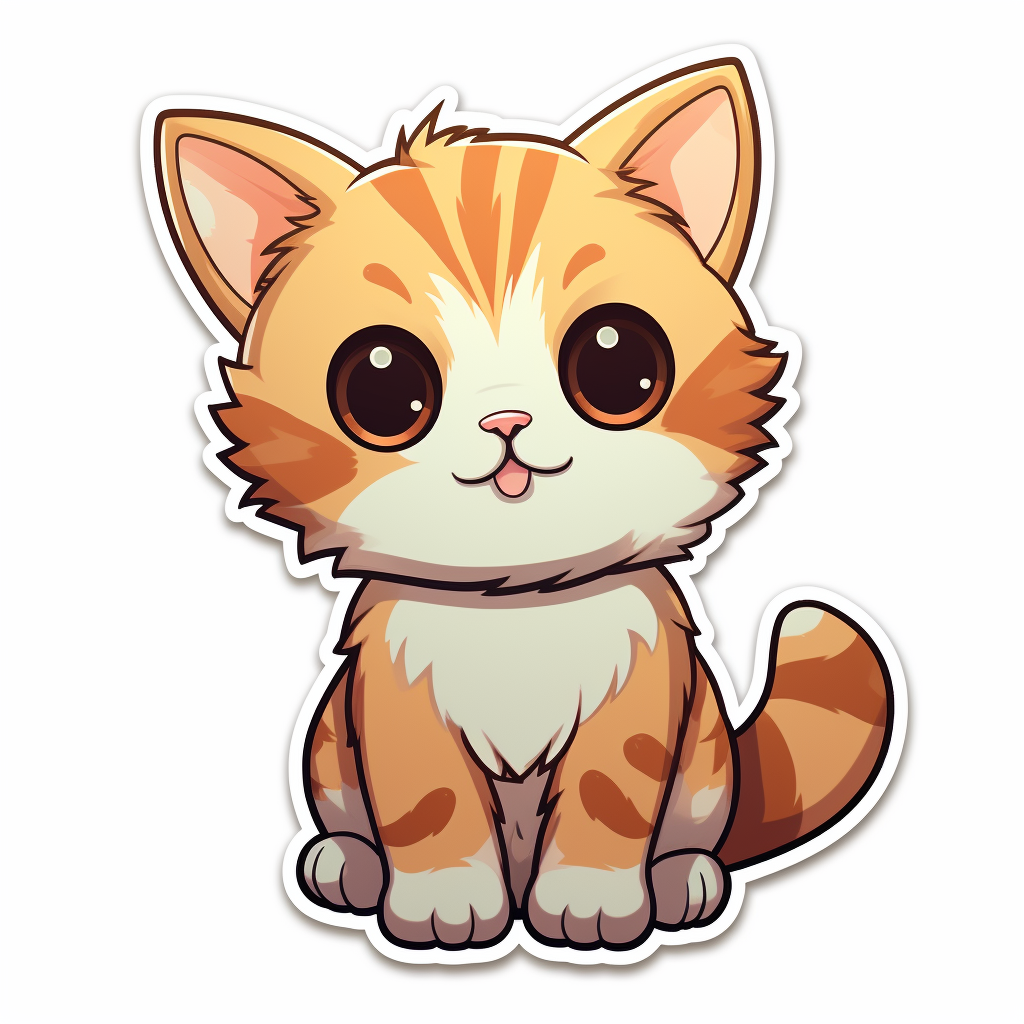
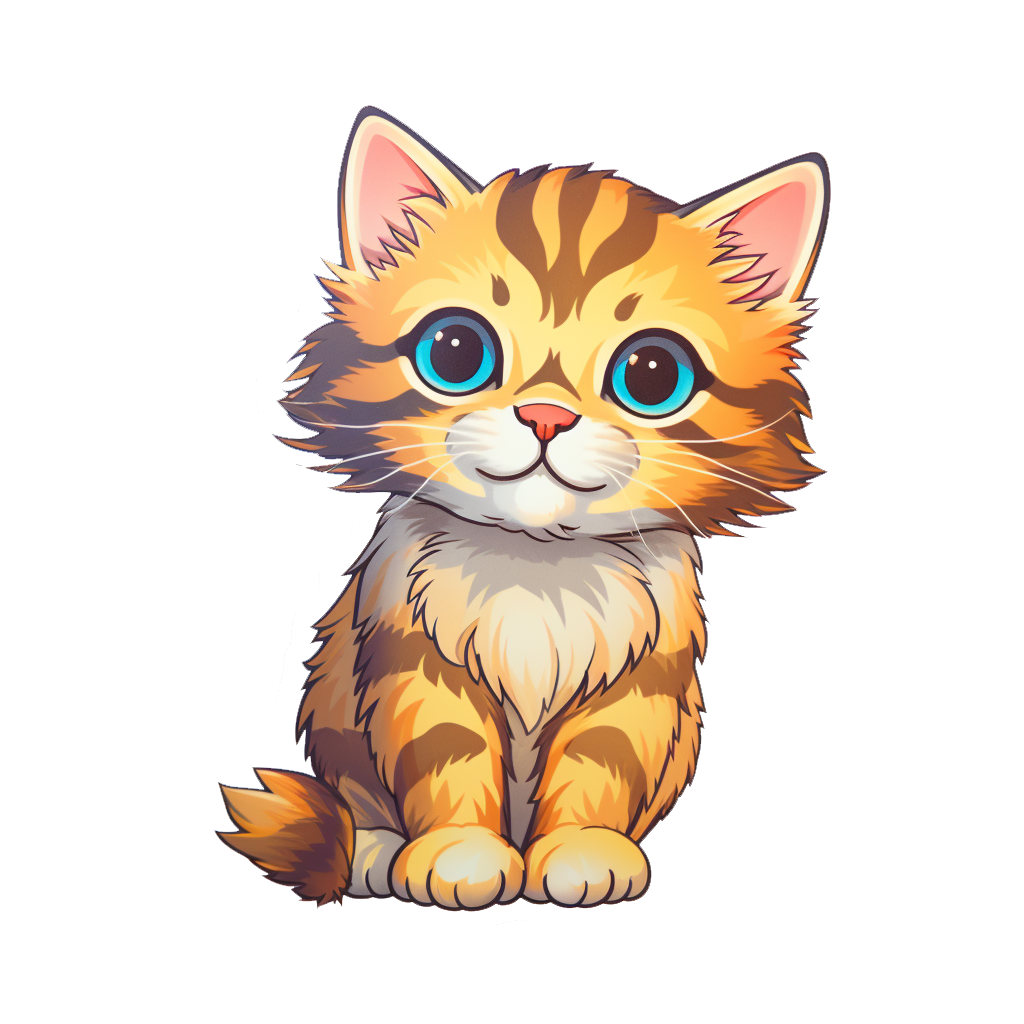
add pet attributes and transparent backgrounds

diff --git a/src/main/java/de/schroedingerscat/commandhandler/CatsAndPetsHandler.java b/src/main/java/de/schroedingerscat/commandhandler/CatsAndPetsHandler.java
@@ -220,12 +220,12 @@ public class CatsAndPetsHandler extends ListenerAdapter {
         String[][] lPetNames = new String[lPets.length][2];
         for (int i = 0; i < 3 &&  i < lPets.length; ++i) {
             lPetNames[i][0] = lPets[i].name();
-            lPetNames[i][1] = Utils.formatPrice(lPets[i].price());
+            lPetNames[i][1] = "Level " + lPets[i].level()+"\nStrength: "+lPets[i].strength()+"\nHealth: "+lPets[i].health()+"\nSpeed: "+lPets[i].speed()+"\nPrice: "+Utils.formatPrice(lPets[i].price());
         }
 
-        MessageEmbed lEmbed = Utils.createEmbed(CATS_AND_PETS_COLOR, "Pet Inventory", "Your pets:", lPetNames, true, null, "attachment://pets.jpg", "1/"+Utils.roundUp(getNumberOfPetsFor(pEvent.getUser().getIdLong(), pEvent.getGuild().getIdLong()),3));
+        MessageEmbed lEmbed = Utils.createEmbed(CATS_AND_PETS_COLOR, "Pet Inventory", "Your pets:", lPetNames, true, null, "attachment://pets.png", "1/"+Utils.roundUp(getNumberOfPetsFor(pEvent.getUser().getIdLong(), pEvent.getGuild().getIdLong()),3));
         pEvent.getHook().editOriginalEmbeds(lEmbed).
-                setAttachments(FileUpload.fromData(mergePetImages(lPets), "pets.jpg")).
+                setAttachments(FileUpload.fromData(mergePetImages(lPets), "pets.png")).
                 setActionRow(
                         Button.primary("left_", Emoji.fromUnicode("U+21E6").getAsReactionCode()),
                         Button.primary("right_", Emoji.fromUnicode("U+21E8").getAsReactionCode())
@@ -237,40 +237,39 @@ public class CatsAndPetsHandler extends ListenerAdapter {
         BufferedImage lImg1 = ImageIO.read(new File(pPetPath1));
         BufferedImage lImg2 = ImageIO.read(new File(pPetPath2));
         BufferedImage lImg3 = ImageIO.read(new File(pPetPath3));
-        BufferedImage lMergedImg = new BufferedImage(lImg1.getWidth() + lImg2.getWidth() + lImg3.getWidth() + 160, Math.max(lImg1.getHeight(), Math.max(lImg2.getHeight(), lImg3.getHeight()))+80, BufferedImage.TYPE_INT_RGB);
+        BufferedImage lMergedImg = new BufferedImage(lImg1.getWidth() + lImg2.getWidth() + lImg3.getWidth() + 160, Math.max(lImg1.getHeight(), Math.max(lImg2.getHeight(), lImg3.getHeight()))+80, BufferedImage.TYPE_INT_ARGB);
 
         Graphics2D lMergedImgGraphic = lMergedImg.createGraphics();
-        lMergedImgGraphic.drawImage(lImg1, 40, 40, null);
-        lMergedImgGraphic.drawImage(lImg2, lImg1.getWidth() + 80, 40, null);
-        lMergedImgGraphic.drawImage(lImg3, lImg1.getWidth() + 120 + lImg2.getWidth(), 40, null);
+        lMergedImgGraphic.drawImage(lImg1, 0, 0, null);
+        lMergedImgGraphic.drawImage(lImg2, lImg1.getWidth(), 0, null);
+        lMergedImgGraphic.drawImage(lImg3, lImg1.getWidth() + lImg2.getWidth(), 0, null);
 
-        ImageIO.write(lMergedImg, "jpg", new File(pOutput));
+        ImageIO.write(lMergedImg, "png", new File(pOutput));
         lMergedImgGraphic.dispose();
     }
 
     public byte[] mergePetImages(Pet... pPets) throws IOException {
         BufferedImage[] lImageFiles = new BufferedImage[pPets.length];
-        int lWidth = 40;
+        int lWidth = 0;
         int lHeight = 0;
 
         for (int i = 0; i < pPets.length; ++i) {
             lImageFiles[i] = ImageIO.read(new File(getPetPath(pPets[i].id())));
-            lWidth += lImageFiles[i].getWidth() + 40;
+            lWidth += lImageFiles[i].getWidth();
             lHeight = Math.max(lHeight, lImageFiles[i].getHeight());
         }
-        lHeight += 80;
 
-        BufferedImage lMergedImg = new BufferedImage(lWidth, lHeight, BufferedImage.TYPE_INT_RGB);
+        BufferedImage lMergedImg = new BufferedImage(lWidth, lHeight, BufferedImage.TYPE_INT_ARGB);
         Graphics2D lMergedImgGraphic = lMergedImg.createGraphics();
 
-        int lX = 40;
+        int lX = 0;
         for (int i = 0; i < lImageFiles.length; ++i) {
             lMergedImgGraphic.drawImage(lImageFiles[i], lX, 40, null);
-            lX += lImageFiles[i].getWidth() + 40;
+            lX += lImageFiles[i].getWidth();
         }
 
         ByteArrayOutputStream baos = new ByteArrayOutputStream();
-        ImageIO.write(lMergedImg, "jpg", baos);
+        ImageIO.write(lMergedImg, "png", baos);
         return baos.toByteArray();
     }
 
@@ -286,9 +285,9 @@ public class CatsAndPetsHandler extends ListenerAdapter {
 
     private Pet[] getOneSiteOfPetsFor(long pUserId, long pGuildId, int pSite) throws SQLException {
         ArrayList<Pet> lPets = new ArrayList<>();
-        ResultSet lRs = mUtils.onQuery("SELECT * FROM Pet WHERE id IN (SELECT pet_id FROM PetInventory WHERE guild_id = ? AND user_id = ? ORDER BY pet_id ASC LIMIT ?, 3)", pGuildId, pUserId, pSite*3);
+        ResultSet lRs = mUtils.onQuery("SELECT id, name, description, price, strength, health, speed, level FROM Pet JOIN PetInventory ON pet_id = id WHERE guild_id = ? AND user_id = ? ORDER BY pet_id ASC LIMIT ?, 3", pGuildId, pUserId, pSite*3);
         for (int i = 0; i < 3 && lRs.next(); ++i) {
-            lPets.add(new Pet(lRs.getInt("id"), lRs.getString("name"), lRs.getInt("price"), lRs.getString("description")));
+            lPets.add(new Pet(lRs.getInt("id"), lRs.getString("name"), lRs.getString("description"), lRs.getInt("price"), lRs.getInt("level"), lRs.getInt("strength"), lRs.getInt("health"), lRs.getInt("speed")));
         }
 
         return lPets.toArray(new Pet[lPets.size()]);
@@ -297,7 +296,7 @@ public class CatsAndPetsHandler extends ListenerAdapter {
     private void shopCommand(SlashCommandInteractionEvent pEvent) throws IOException {
         pEvent.deferReply().queue();
 
-        FileInputStream lCatInStream = new FileInputStream("src/main/resources/shop.jpg");
+        FileInputStream lCatInStream = new FileInputStream("src/main/resources/shop.png");
         pEvent.getHook().
                 editOriginalEmbeds(new EmbedBuilder().
                         setTitle("Pet Shop").
@@ -306,7 +305,7 @@ public class CatsAndPetsHandler extends ListenerAdapter {
                         addField(mPetsInStock[0].name(), Utils.formatPrice(mPetsInStock[0].price()), true).
                         addField(mPetsInStock[1].name(), Utils.formatPrice(mPetsInStock[1].price()), true).
                         addField(mPetsInStock[2].name(), Utils.formatPrice(mPetsInStock[2].price()), true).
-                        setImage("attachment://shop.jpg").
+                        setImage("attachment://shop.png").
                         build()
                 ).
                 setActionRow(
@@ -314,7 +313,7 @@ public class CatsAndPetsHandler extends ListenerAdapter {
                         Button.success("buy_pet_1", "Buy Pet 2"),
                         Button.danger("buy_pet_2", "Buy Pet 3")
                 ).
-                setAttachments(FileUpload.fromData(lCatInStream, "shop.jpg")).
+                setAttachments(FileUpload.fromData(lCatInStream, "shop.png")).
                 queue();
     }
 
@@ -330,7 +329,7 @@ public class CatsAndPetsHandler extends ListenerAdapter {
             pEvent.getHook().editOriginalEmbeds(Utils.createEmbed(Color.red, ":x: You already own this pet", lUser)).queue();
         }
         else {
-            mUtils.onExecute("INSERT INTO PetInventory (guild_id, user_id, pet_id) VALUES (?, ?, ?)", pEvent.getGuild().getIdLong(), lUser.getIdLong(), lPet.id());
+            mUtils.onExecute("INSERT INTO PetInventory (guild_id, user_id, pet_id, level) VALUES (?, ?, ?, 1)", pEvent.getGuild().getIdLong(), lUser.getIdLong(), lPet.id());
             mUtils.increaseBankOrCash(lUser.getIdLong(), pEvent.getGuild().getIdLong(), -lPet.price(), "cash");
             FileInputStream lPetImgStream = new FileInputStream(getPetPath(lPet.id()));
             pEvent.getHook().editOriginalEmbeds(
@@ -351,9 +350,11 @@ public class CatsAndPetsHandler extends ListenerAdapter {
     }
 
     private void refreshPetStock() throws SQLException, IOException {
-        for (int i = 0; i < mPetsInStock.length; i++) {
-            mPetsInStock[i] = mUtils.getPet();
+        ResultSet lRs = mUtils.onQuery("SELECT * FROM Pet ORDER BY RANDOM() LIMIT 3");
+        for (int i = 0; i < 3; ++i) {
+            lRs.next();
+            mPetsInStock[i] = new Pet(lRs.getInt("id"), lRs.getString("name"), lRs.getString("description"), lRs.getInt("price"), 1, lRs.getInt("strength"), lRs.getInt("health"), lRs.getInt("speed"));
         }
-        createShopImage(getPetPath(mPetsInStock[0].id()), getPetPath(mPetsInStock[1].id()), getPetPath(mPetsInStock[2].id()), "src/main/resources/shop.jpg");
+        createShopImage(getPetPath(mPetsInStock[0].id()), getPetPath(mPetsInStock[1].id()), getPetPath(mPetsInStock[2].id()), "src/main/resources/shop.png");
     }
 }

diff --git a/src/main/java/de/schroedingerscat/data/SchroedingersCatData.java b/src/main/java/de/schroedingerscat/data/SchroedingersCatData.java
@@ -106,8 +106,8 @@ public class SchroedingersCatData implements BotData {
             "CREATE TABLE IF NOT EXISTS 'GuildSettings' ('guild_id' INTEGER, 'welcome_channel_id' INTEGER, 'auto_role_id' INTEGER, 'create_channel_id' INTEGER, 'welcome_message' TEXT, 'screening' INTEGER, 'log_channel_id' INTEGER, 'catsandpets_channel_id' INTEGER, 'editor_role_id' INTEGER, 'moderator_role_id' INTEGER, PRIMARY KEY('guild_id'))",
             "CREATE TABLE IF NOT EXISTS 'ReactionRole' ('guild_id' INTEGER, 'message_id' INTEGER, 'emoji' TEXT, 'channel_id' INTEGER, 'role_id' INTEGER, PRIMARY KEY('guild_id','emoji','message_id'))",
             "CREATE TABLE IF NOT EXISTS 'CatCards' ('guild_id' INTEGER, 'user_id' INTEGER, 'cat_number' INTEGER)",
-            "CREATE TABLE IF NOT EXISTS 'Pet' ('id' INTEGER, 'name' TEXT, 'price' INTEGER, 'description' TEXT, PRIMARY KEY('id'))",
-            "CREATE TABLE IF NOT EXISTS 'PetInventory' ('guild_id' INTEGER, 'user_id' INTEGER, 'pet_id' INTEGER, PRIMARY KEY('guild_id','user_id','pet_id'))",
+            "CREATE TABLE IF NOT EXISTS 'Pet' ('id' INTEGER, 'name' TEXT, 'price' INTEGER, 'description' TEXT, 'strength' INTEGER, 'health' INTEGER, 'speed' INTEGER, PRIMARY KEY('id'))",
+            "CREATE TABLE IF NOT EXISTS 'PetInventory' ('guild_id' INTEGER, 'user_id' INTEGER, 'pet_id' INTEGER, 'level' INTEGER, PRIMARY KEY('guild_id','user_id','pet_id'))",
             "CREATE TABLE IF NOT EXISTS 'CommandCooldown' ('guild_id' INTEGER, 'user_id' INTEGER, 'command' TEXT, 'cooldown_until' INTEGER)",
             "CREATE TABLE IF NOT EXISTS 'IncomeRole' ('guild_id' INTEGER, 'role_id' INTEGER, 'income' INTEGER)",
             "CREATE TABLE IF NOT EXISTS 'AutoChannel' ('guild_id' INTEGER, 'owner_id' INTEGER, 'channel_id' INTEGER)"

diff --git a/src/main/java/de/schroedingerscat/Utils.java b/src/main/java/de/schroedingerscat/Utils.java
@@ -48,22 +48,6 @@ public class Utils {
         conn.commit();
     }
 
-    public Pet getPet(int pPetId) throws SQLException {
-        ResultSet lRs = onQuery("SELECT * FROM Pet WHERE id = ?", pPetId);
-        if (lRs.next()) {
-            return new Pet(lRs.getInt("id"), lRs.getString("name"), lRs.getInt("price"), lRs.getString("description"));
-        }
-        return null;
-    }
-
-    public Pet getPet() throws SQLException {
-        ResultSet lRs = onQuery("SELECT * FROM Pet ORDER BY RANDOM() LIMIT 1");
-        if (lRs.next()) {
-            return new Pet(lRs.getInt("id"), lRs.getString("name"), lRs.getInt("price"), lRs.getString("description"));
-        }
-        return null;
-    }
-
     /**
      * Gets the bank and cash values of money from a specific user on a server
      *

diff --git a/src/main/java/de/schroedingerscat/entities/Pet.java b/src/main/java/de/schroedingerscat/entities/Pet.java
@@ -1,3 +1,3 @@
 package de.schroedingerscat.entities;
 
-public record Pet(int id, String name, int price, String description) {}
+public record Pet(int id, String name, String description, int price, int level, int strength, int health, int speed) {}
